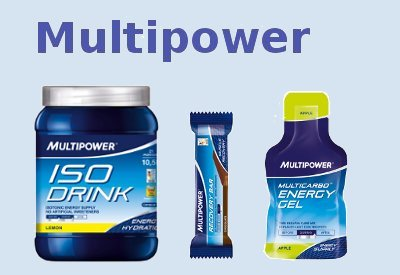
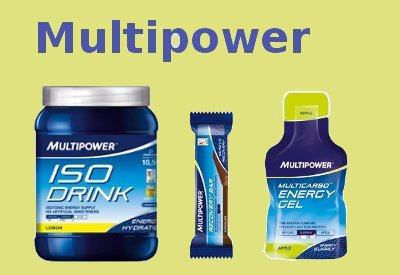
added slides with background color, styles

diff --git a/public/stylesheets/screen.css b/public/stylesheets/screen.css
@@ -123,7 +123,8 @@ p img.right {
 }
 a {
   text-decoration: underline;
-  color: #2e6ab1;
+  /*color: #2e6ab1; */
+  color: #666666; 
 }
 blockquote {
   margin: 1.5em;
@@ -724,7 +725,8 @@ p a.button img { margin: 0 5px 0 0; }
 p button img { margin: 0 5px 0 0; }
 .prices { font-weight: bold; }
 .prices #product-details .prices { font-size: 1.25em; }
-.price.selling { color: #2e6ab1; }
+/*.price.selling { color: #2e6ab1; }*/
+.price.selling { color: #9c3e18; }
 #product-details .price.selling { font-size: 1.5em; }
 .price.diff {
   font-style: italic;

diff --git a/public/stylesheets/besti.css b/public/stylesheets/besti.css
@@ -27,7 +27,8 @@ body {
 	text-decoration:none;
 	font-weight:bold;
 	font-size:1.0em;
-	color:#9de039;
+	/*color:#9de039;*/
+	color:#e0e27f;
 }
 
 #menu_cab a:hover { 
